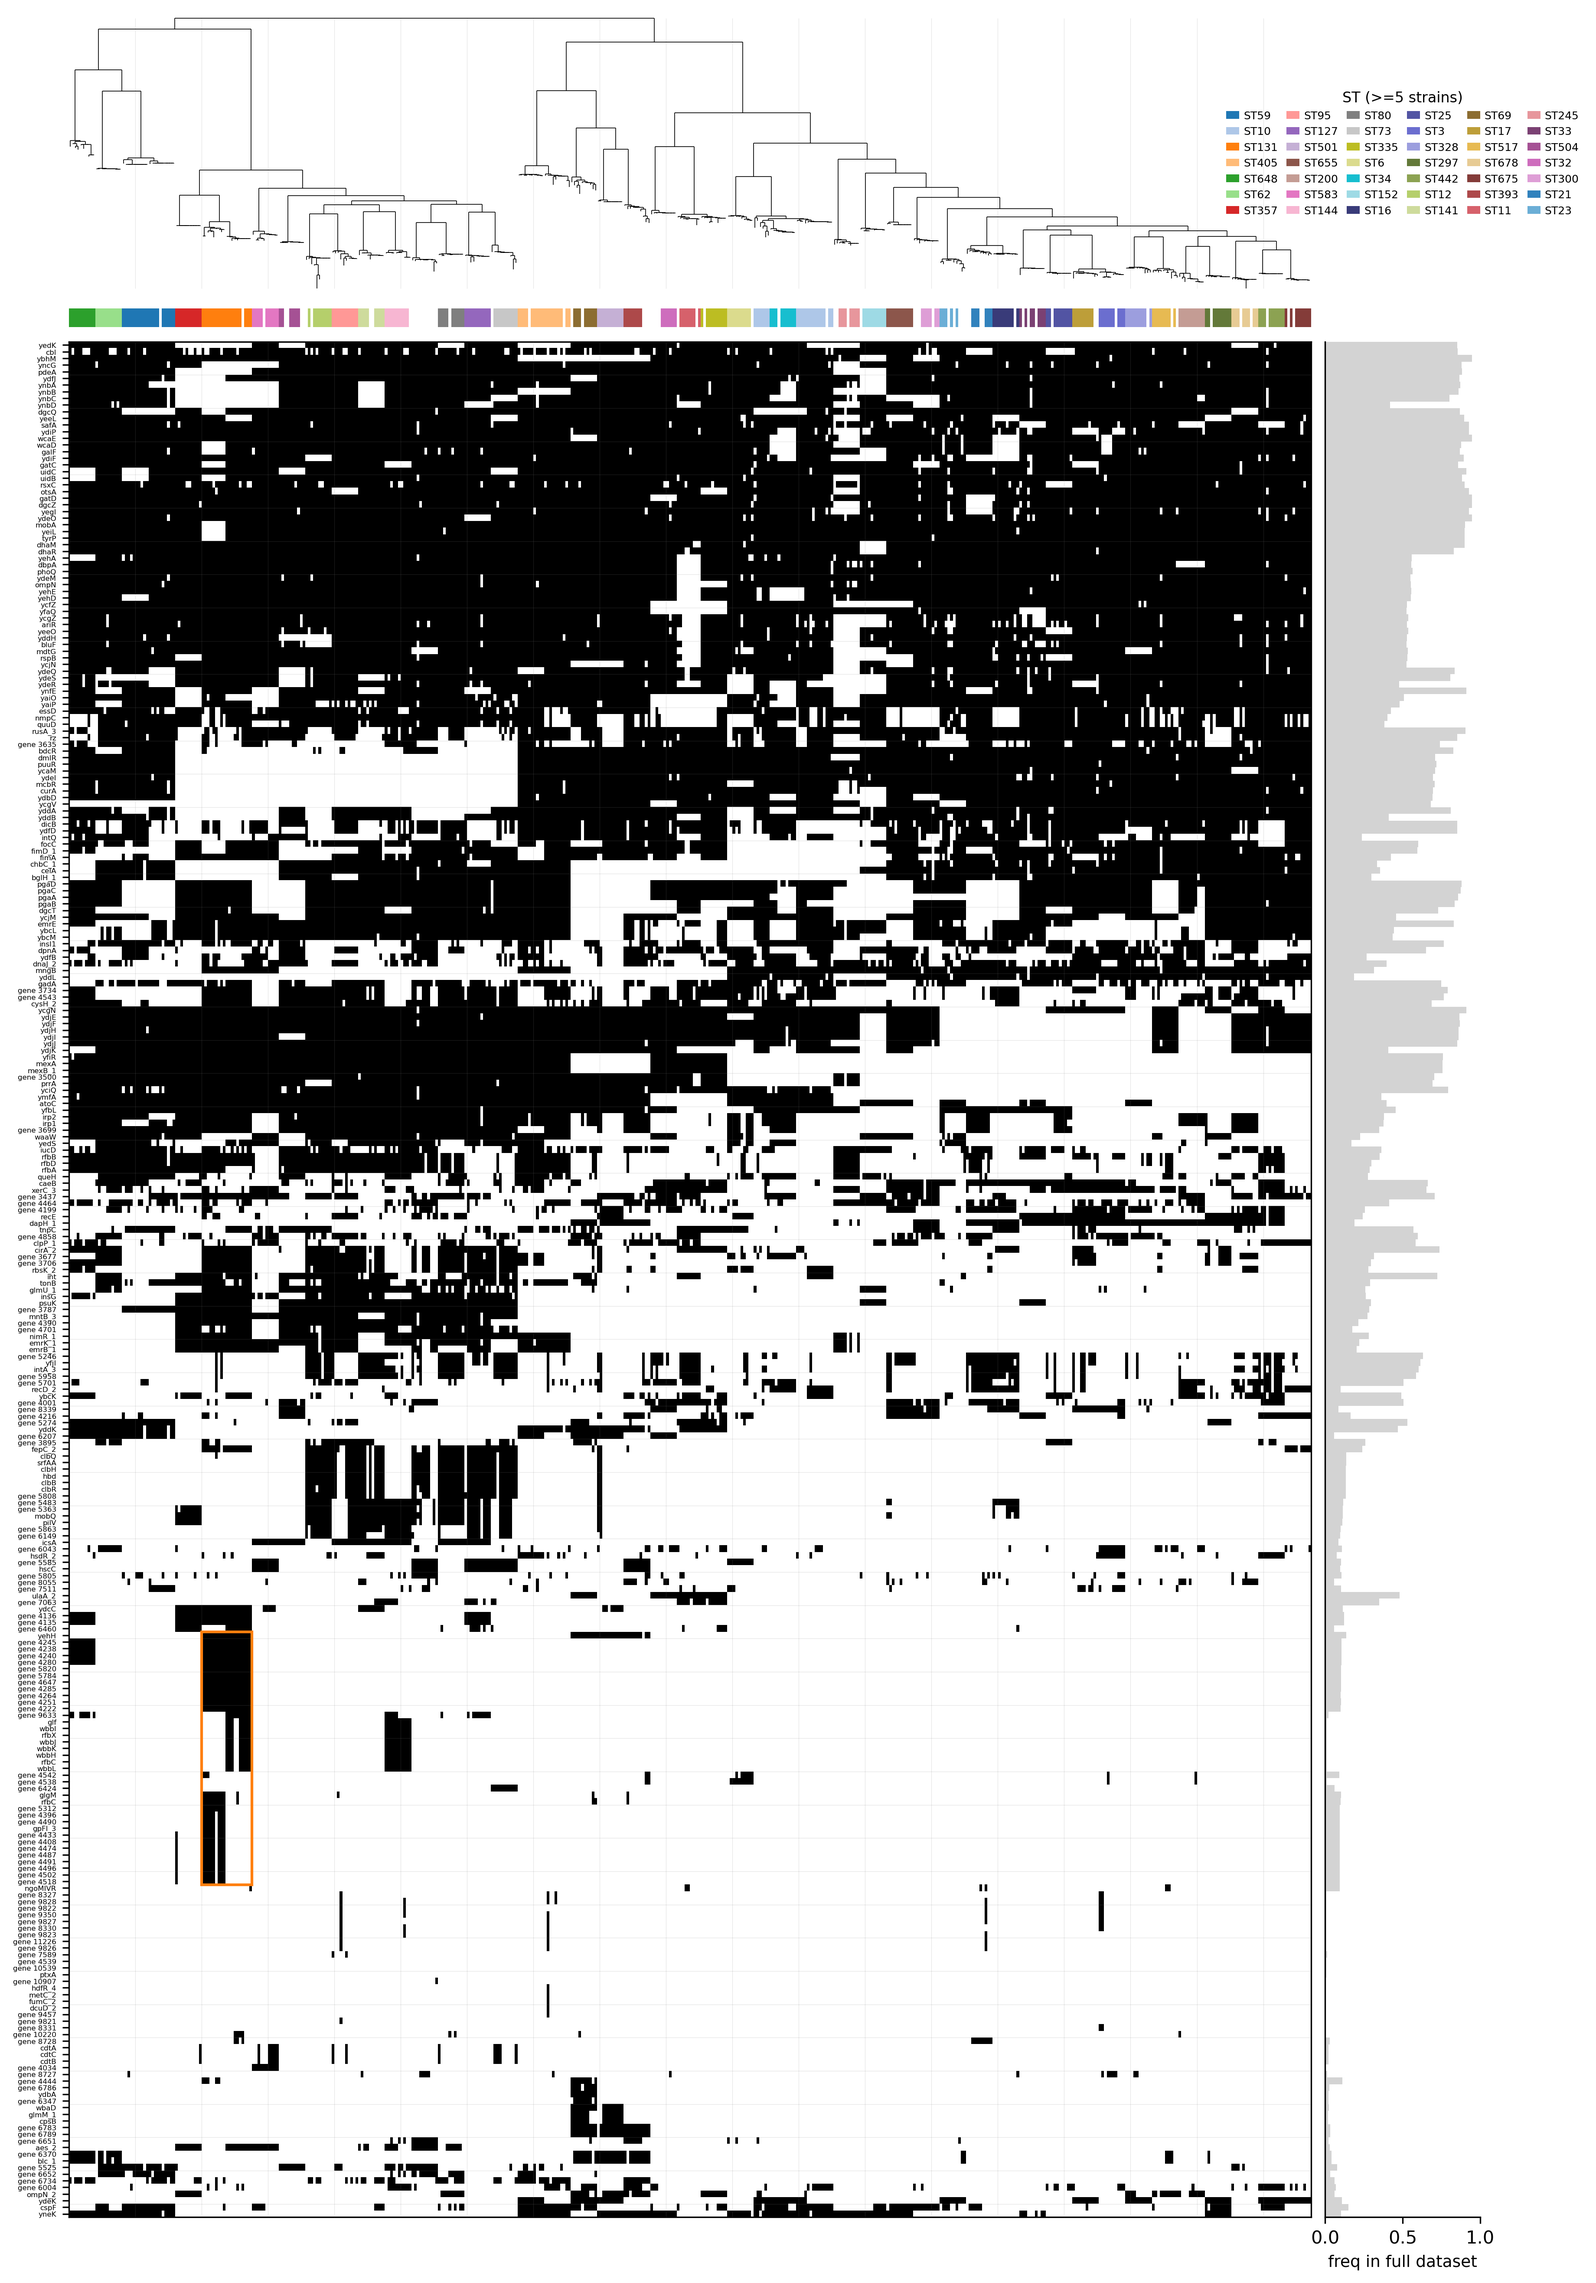
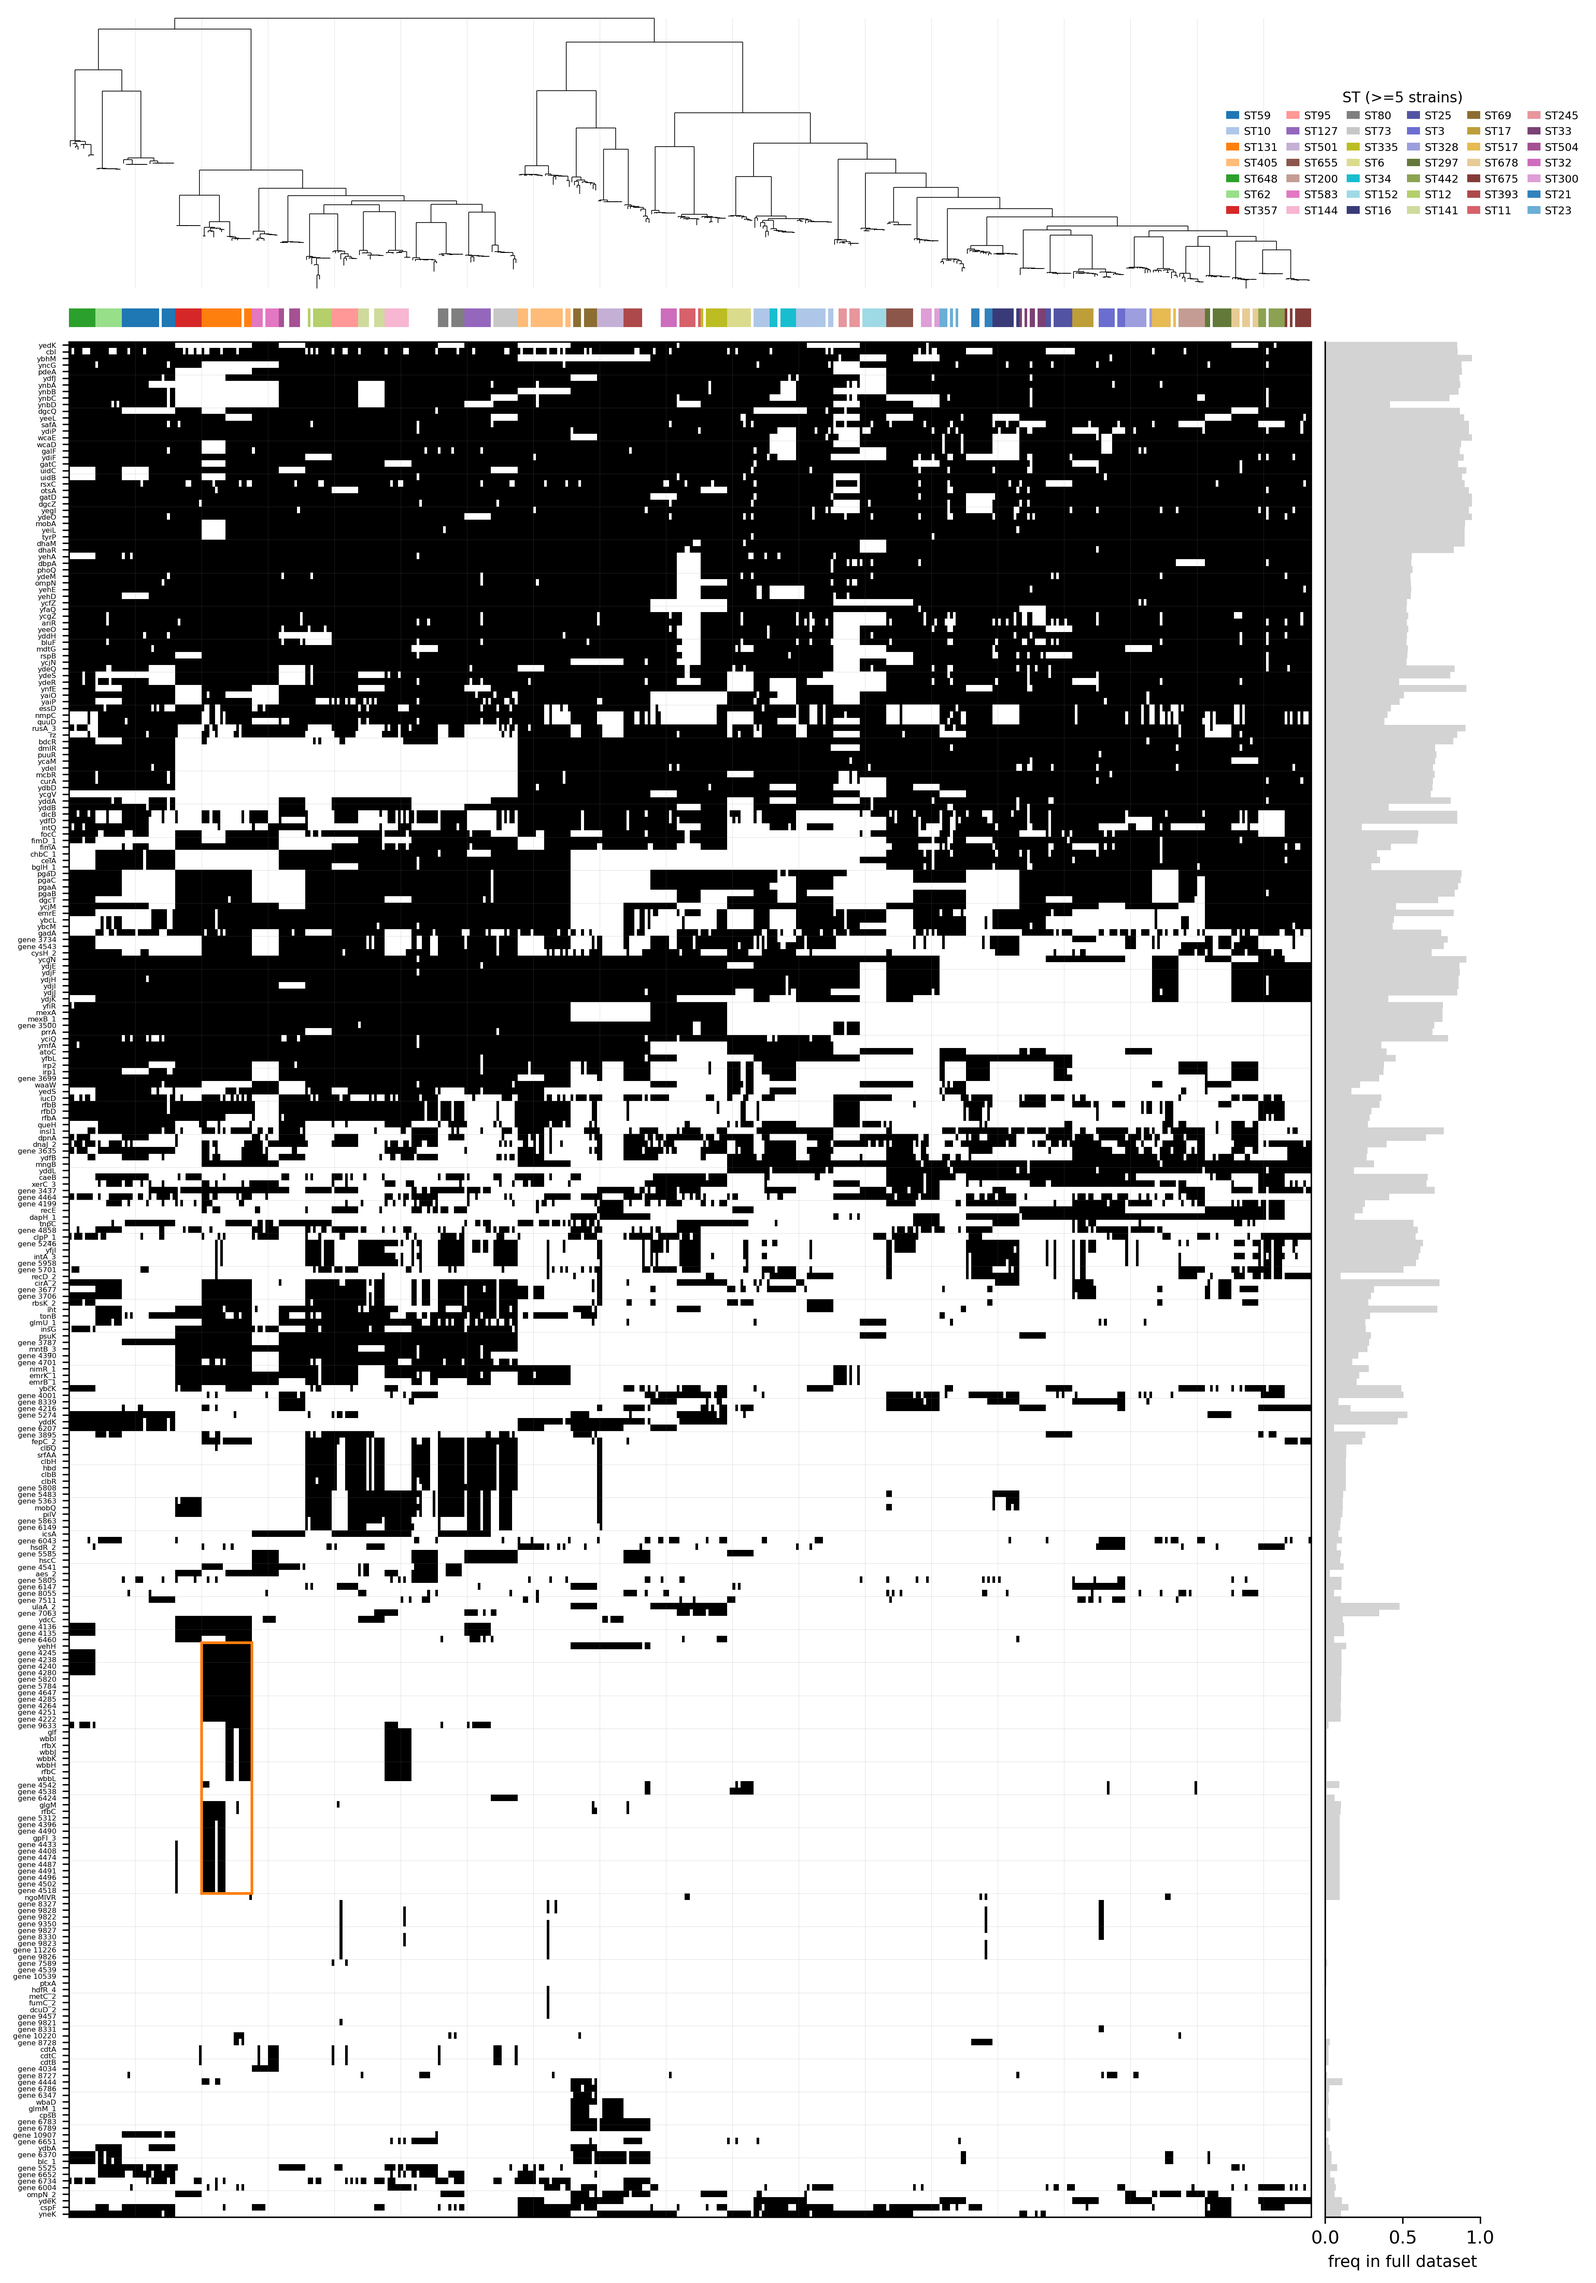
fix: group together multiple blast hits on the same qry/ref pair

diff --git a/scripts/parse_homology.py b/scripts/parse_homology.py
@@ -7,32 +7,39 @@ Input contract
 --------------
 A 12-column tabular file with the same columns as `blastn -outfmt 6`:
     qseqid sseqid pident length qlen slen qstart qend sstart send evalue bitscore
-For mmseqs2, use `easy-search --format-output "query,target,pident,alnlen,qlen,
-tlen,qstart,qend,tstart,tend,evalue,bits"`. With `--search-type 2`, `pident`,
-`length`, `qlen` and `slen` are all in amino-acid units, so the qcov/scov
-arithmetic below remains unit-consistent.
+
+BLAST emits one row per HSP, so a single (query, subject) hit can span
+multiple rows. We aggregate per (qseqid, sseqid) before applying coverage
+thresholds: qcov / scov are computed as the *union* of HSP intervals on the
+query and subject respectively, divided by qlen / slen. This matches BLAST's
+own `qcovs` definition on the query side and applies the same logic to the
+subject side.
 
 Coverage note
 -------------
-Focal-gene consensus sequences (built from MSAs) are often longer than the individual
-pangenome reference genes.  Because of this, *subject coverage* (scovs = how much of
-the reference gene is covered) is the more meaningful filter for a "complete match",
-whereas query coverage (qcovs) flags whether the whole consensus maps to one reference.
-Both thresholds are applied independently.
+Focal-gene consensus sequences (built from MSAs) are often longer than the
+individual pangenome reference genes, and can split into multiple HSPs against
+a single subject. Aggregating intervals before thresholding avoids spuriously
+dropping multi-HSP hits where each individual HSP is below threshold but the
+union of HSPs is not.
 
 Output
 ------
-mapping.csv   - all hits passing all thresholds, one row per (query, ref) pair.
+mapping.csv   - one row per (query, ref) pair passing all thresholds.
                 Columns:
                   query_id, ref_id, pident, qcov, scov,
-                  qstart, qend, sstart, send, evalue, bitscore,
-                  hit_rank          # 1 = best hit for this query
-unmatched.txt - one query ID per line for queries with no passing hit
+                  bitscore, evalue, n_hsps, hit_rank
+                pident: length-weighted mean across HSPs;
+                bitscore: sum across HSPs; evalue: min across HSPs;
+                hit_rank: 1 = best ref for this query (by aggregated bitscore).
+unmatched.txt - one query ID per line for queries with no passing hit.
 """
 
 import argparse
 import sys
 from pathlib import Path
+
+import numpy as np
 import pandas as pd
 
 
@@ -49,6 +56,18 @@ BLAST_COLS = [
     "send",
     "evalue",
     "bitscore",
+]
+
+OUT_COLS = [
+    "query_id",
+    "ref_id",
+    "pident",
+    "qcov",
+    "scov",
+    "bitscore",
+    "evalue",
+    "n_hsps",
+    "hit_rank",
 ]
 
 
@@ -71,6 +90,41 @@ def read_query_ids(fa_path):
             if line.startswith(">"):
                 ids.append(line[1:].split()[0])
     return ids
+
+
+def union_length(intervals):
+    """Length of the union of 1-based inclusive intervals; orientation-agnostic."""
+    norm = sorted((min(s, e), max(s, e)) for s, e in intervals)
+    total, cur_end = 0, 0
+    for s, e in norm:
+        s = max(s, cur_end + 1)
+        if s <= e:
+            total += e - s + 1
+            cur_end = e
+    return total
+
+
+def aggregate_hits(df):
+    """Collapse per-HSP rows into one row per (qseqid, sseqid)."""
+    records = []
+    for (qid, sid), grp in df.groupby(["qseqid", "sseqid"], sort=False):
+        qlen = grp["qlen"].iloc[0]
+        slen = grp["slen"].iloc[0]
+        q_union = union_length(zip(grp["qstart"], grp["qend"]))
+        s_union = union_length(zip(grp["sstart"], grp["send"]))
+        records.append(
+            {
+                "qseqid": qid,
+                "sseqid": sid,
+                "pident": float(np.average(grp["pident"], weights=grp["length"])),
+                "qcov": q_union / qlen * 100,
+                "scov": s_union / slen * 100,
+                "bitscore": float(grp["bitscore"].sum()),
+                "evalue": float(grp["evalue"].min()),
+                "n_hsps": int(len(grp)),
+            }
+        )
+    return pd.DataFrame.from_records(records)
 
 
 def main():
@@ -97,46 +151,41 @@ def main():
             "WARNING: hits file is empty — all queries will be unmatched.",
             file=sys.stderr,
         )
-        passing = df.copy()
+        agg = pd.DataFrame(
+            columns=["qseqid", "sseqid", "pident", "qcov", "scov",
+                     "bitscore", "evalue", "n_hsps"]
+        )
+        passing = agg.copy()
     else:
-        # --- compute per-alignment coverage ---
-        df["qcov"] = (df["length"] / df["qlen"] * 100).round(2)
-        df["scov"] = (df["length"] / df["slen"] * 100).round(2)
+        # --- aggregate per (qseqid, sseqid) before thresholding ---
+        agg = aggregate_hits(df)
+        agg["pident"] = agg["pident"].round(2)
+        agg["qcov"] = agg["qcov"].round(2)
+        agg["scov"] = agg["scov"].round(2)
 
-        # --- apply thresholds ---
-        passing = df[
-            (df["pident"] >= args.min_pident)
-            & (df["qcov"] >= args.min_qcovs)
-            & (df["scov"] >= args.min_scovs)
+        passing = agg[
+            (agg["pident"] >= args.min_pident)
+            & (agg["qcov"] >= args.min_qcovs)
+            & (agg["scov"] >= args.min_scovs)
         ].copy()
 
     print(
-        f"Hits: {len(df)} total, {len(passing)} pass "
-        f"pident>={args.min_pident}  qcov>={args.min_qcovs}  scov>={args.min_scovs}",
+        f"HSPs: {len(df)}; aggregated hits: {len(agg)}; passing "
+        f"pident>={args.min_pident} qcov>={args.min_qcovs} scov>={args.min_scovs}: "
+        f"{len(passing)}",
         file=sys.stderr,
     )
 
-    # --- rank hits within each query (best bitscore = rank 1) ---
+    # --- rank hits within each query (best aggregated bitscore = rank 1) ---
     if not passing.empty:
         passing = passing.sort_values(["qseqid", "bitscore"], ascending=[True, False])
         passing["hit_rank"] = passing.groupby("qseqid").cumcount() + 1
+    else:
+        passing["hit_rank"] = pd.Series(dtype=int)
 
     # --- build final output ---
-    out_cols = [
-        "qseqid",
-        "sseqid",
-        "pident",
-        "qcov",
-        "scov",
-        "qstart",
-        "qend",
-        "sstart",
-        "send",
-        "evalue",
-        "bitscore",
-        "hit_rank",
-    ]
-    out = passing[out_cols].rename(columns={"qseqid": "query_id", "sseqid": "ref_id"})
+    out = passing.rename(columns={"qseqid": "query_id", "sseqid": "ref_id"})
+    out = out.reindex(columns=OUT_COLS)
 
     Path(args.mapping).parent.mkdir(parents=True, exist_ok=True)
     out.to_csv(args.mapping, index=False)
@@ -155,12 +204,18 @@ def main():
         file=sys.stderr,
     )
 
-    # --- summary of multi-hit queries ---
+    # --- summaries of multi-hit / multi-HSP cases ---
     if not passing.empty:
         multi = passing[passing["hit_rank"] > 1]["qseqid"].nunique()
         if multi:
             print(
-                f"  {multi} queries have >1 passing hit (possible paralogs or multi-gene consensus)",
+                f"  {multi} queries have >1 passing ref (possible paralogs or multi-gene consensus)",
+                file=sys.stderr,
+            )
+        multi_hsp = int((passing["n_hsps"] > 1).sum())
+        if multi_hsp:
+            print(
+                f"  {multi_hsp} passing (query, ref) pairs aggregated >1 HSP",
                 file=sys.stderr,
             )
 

diff --git a/notes/methods.md b/notes/methods.md
@@ -31,7 +31,7 @@ These are a curated panel of 506 genes that were shown in upstream *in vivo* exp
 
 ## Identification of focal genes in the Horesh collection
 
-We map the consensus sequences of our focal genes to the Horesh pangenome reference using nucleotide BLAST, retaining hits with percent identity $\geq$ 85 % and query coverage $\geq$ 85 %. In case of multiple matches we merge the corresponding Horesh clusters together, and genes that fail to match any cluster above the threshold (21 out of 506) are dropped. The output is a restricted presence/absence matrix of focal genes in isolates of the collection, used as input to all downstream analyses.
+We map the consensus sequences of our focal genes to the Horesh pangenome reference using nucleotide BLAST, retaining hits with percent identity $\geq$ 85 % and query coverage $\geq$ 85 %. In case of multiple matches we merge the corresponding Horesh clusters together, and genes that fail to match any cluster above the threshold (19 out of 506) are dropped. The output is a restricted presence/absence matrix of focal genes in isolates of the collection, used as input to all downstream analyses.
 
 ## Identification of high-load strains
 
@@ -45,7 +45,7 @@ $$
 r = \frac{\left(\sum_i f_i\right)^2}{\sum_i f_i^2}
 $$
 
-where $f_i$ is the frequency of the gene in ST $i$ (fraction of ST-$i$ isolates carrying it), summed over STs with ≥10 isolates. $r$ quantifies the effective number of STs in which the gene is commonly found.
+where $f_i$ is the frequency of the gene in ST $i$ (fraction of isolates carrying it), summed over STs with ≥10 isolates. $r$ quantifies the effective number of STs in which the gene is commonly found.
 
 ## Pipeline overview and additional outputs
 
